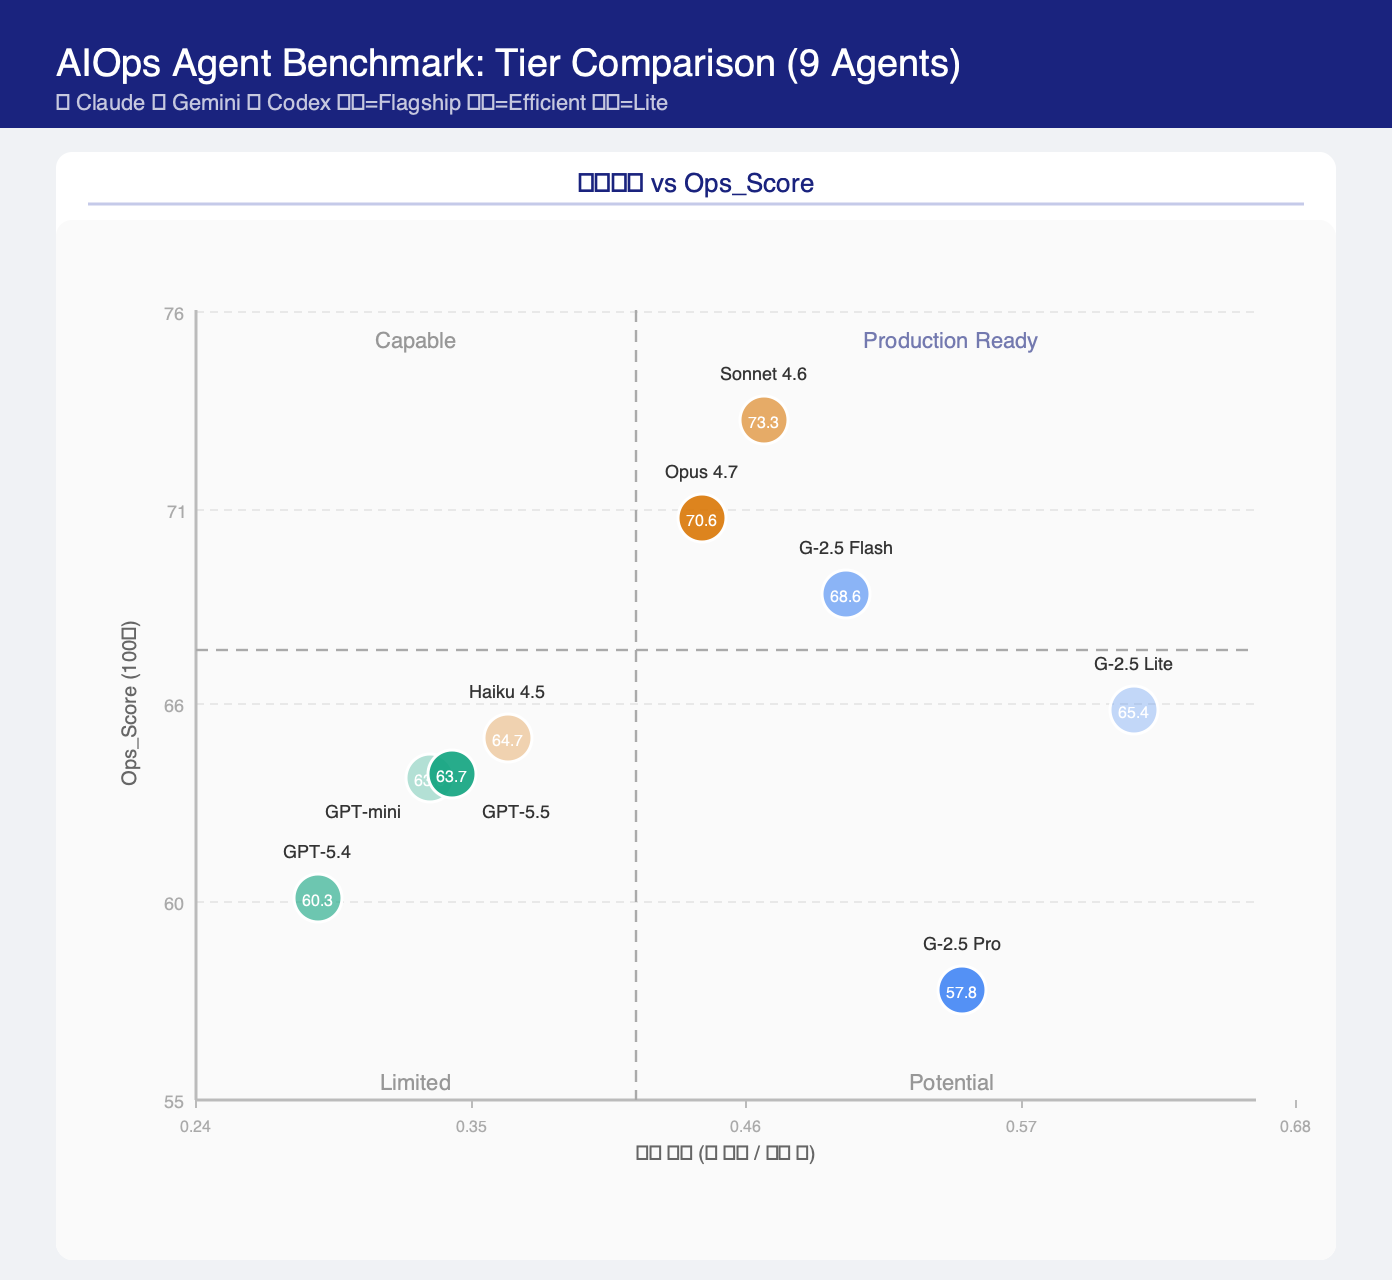
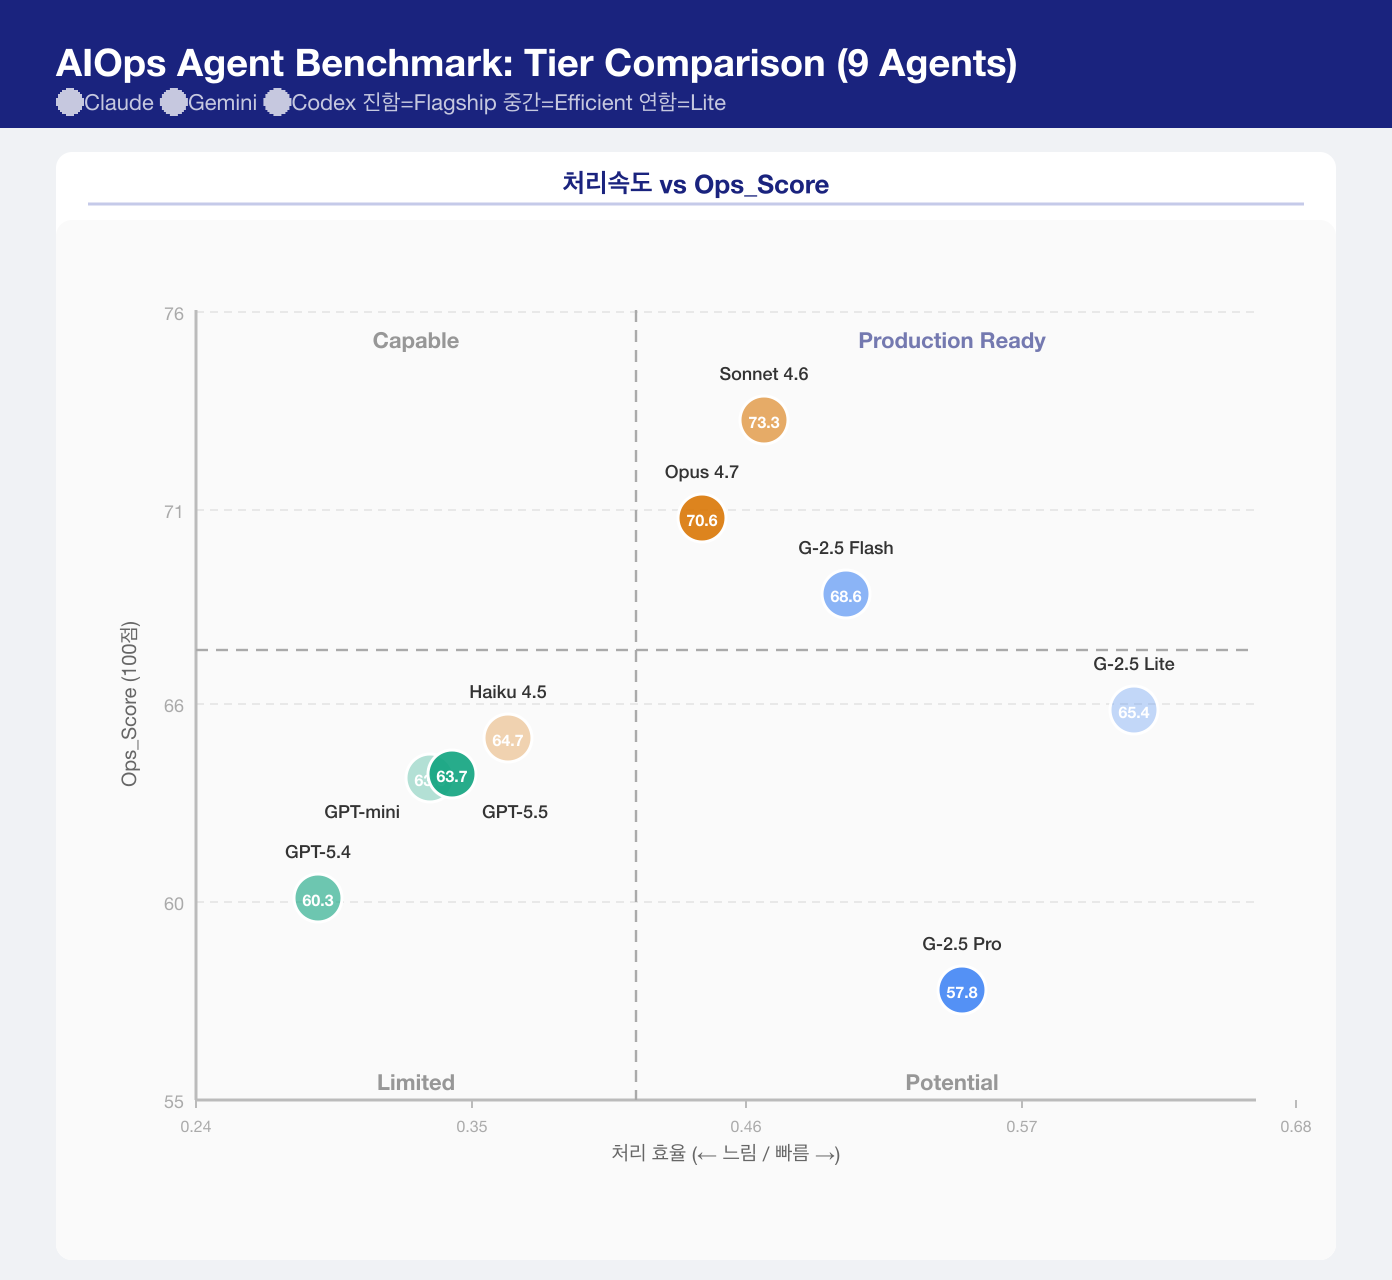
Wire scatter PNG as OG image (ko/en) + regenerate PNG with librsvg
PaperMod cover frontmatter wires the social media preview image:
- ko blog → /images/aiops-tier-comparison-ko-scatter.png
- en blog → /images/aiops-tier-comparison-scatter.png
cover.hidden=true keeps the image out of the page header (inline chart in
body already covers that), so cover only serves the OG meta.

Also regenerated PNG with librsvg/rsvg-convert (cairosvg mishandled CJK
fonts and emoji glyphs, producing garbled bottom legend text).

diff --git a/content/en/blog/aiops-agent-benchmark.md b/content/en/blog/aiops-agent-benchmark.md
@@ -8,6 +8,12 @@ description: "We compared nine model configurations across Claude Code, Gemini C
 summary: "Putting nine agents through ten Kubernetes incident scenarios under identical conditions surfaced two things: the Efficient tier beat Flagship outright, and each brand has a clearly different operational personality."
 ShowToc: true
 TocOpen: true
+cover:
+    image: "/images/aiops-tier-comparison-scatter.png"
+    alt: "AIOps Agent Benchmark: Processing Efficiency vs Ops_Score (9 agents)"
+    hidden: true
+images:
+    - /images/aiops-tier-comparison-scatter.png
 ---
 
 ## They can write code, but can they operate?
